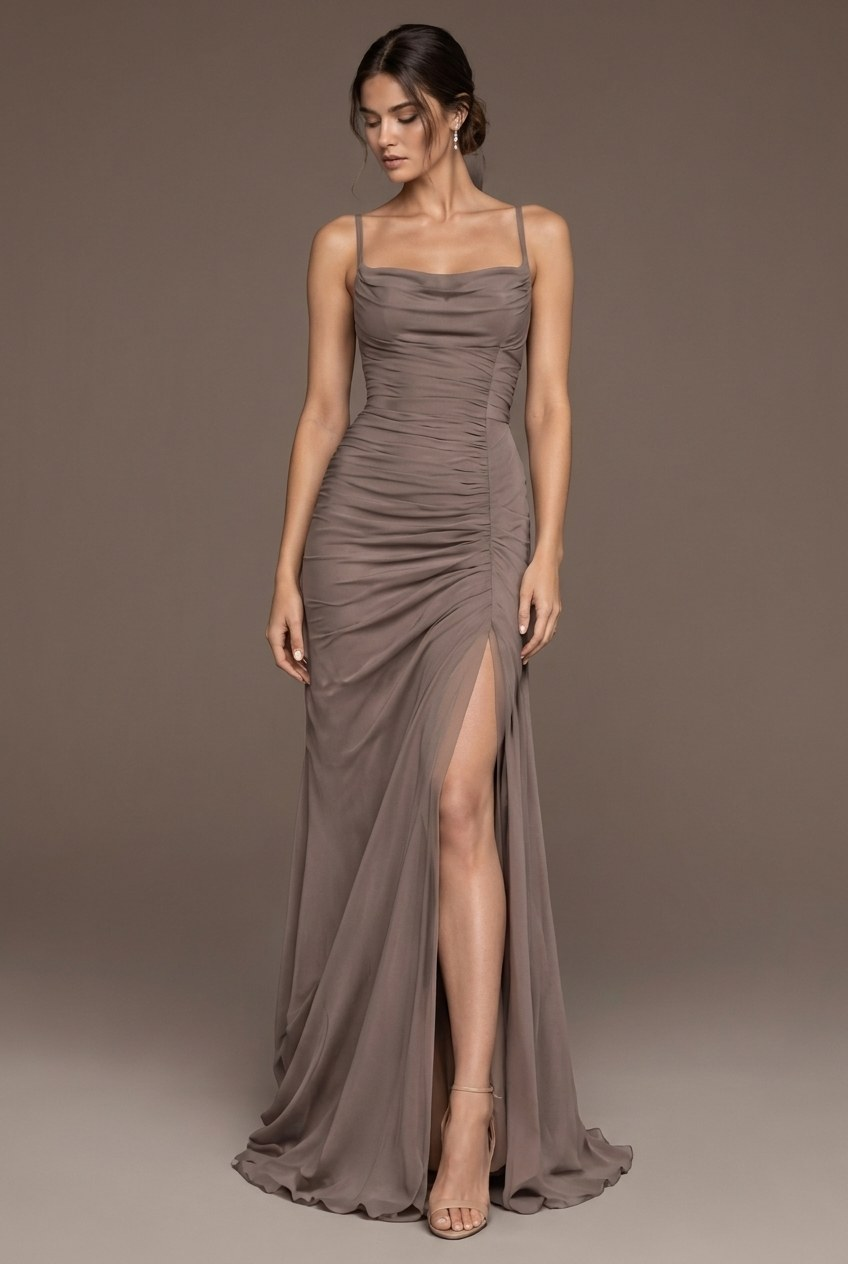
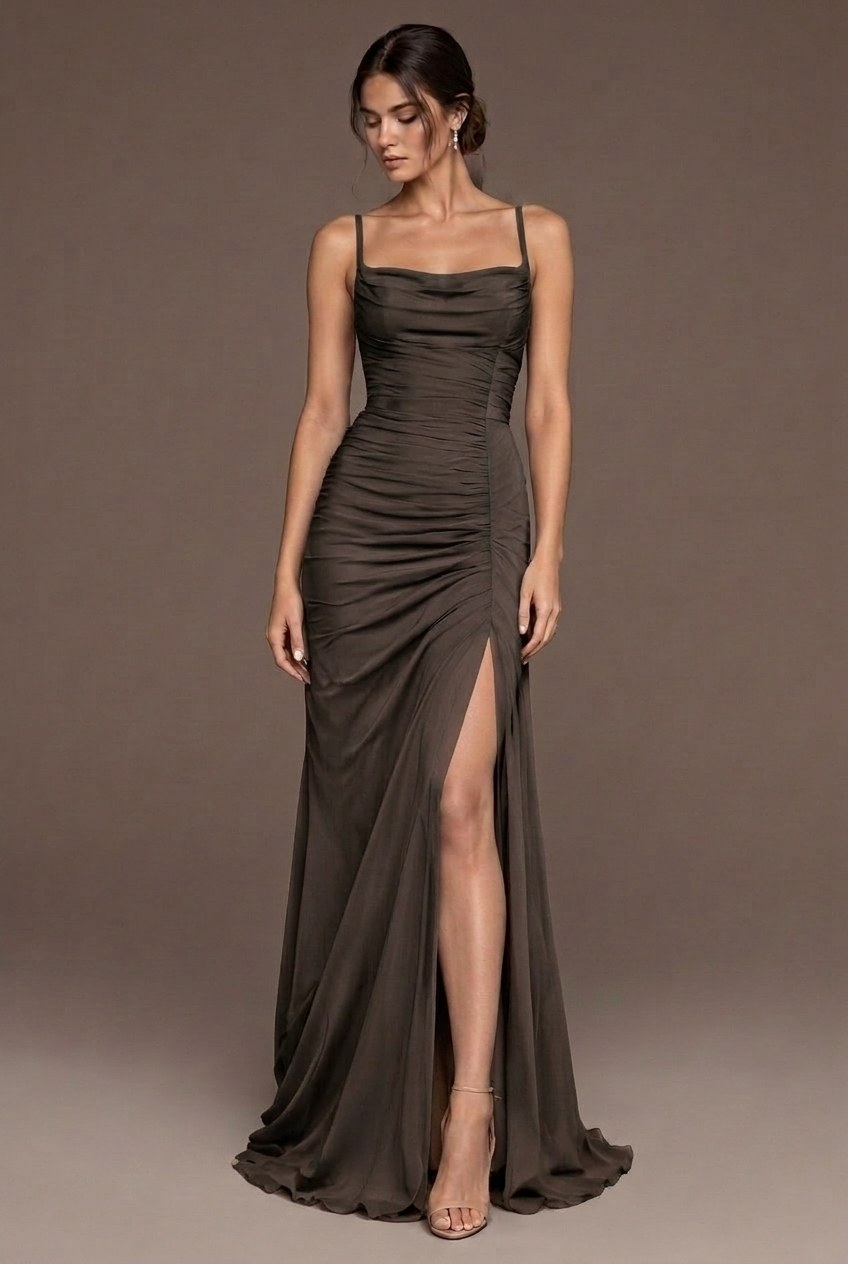
Gris achocolatado más oscuro y sin nombres bajo los colores

Changed region(s): [[0.2759, 0.1543, 0.7665, 0.9873], [0.5212, 0.9565, 0.5519, 0.9873]]

diff --git a/index.html b/index.html
@@ -788,7 +788,7 @@ document.querySelectorAll('#htabs button').forEach(b=>b.addEventListener('click'
 // dress code: hover/click cambia las 3 fotos
 const DR={
  w:{sub:'Las mujeres pueden elegir vestidos largos elegantes, en colores sólidos (sin estampados) de nuestra paleta.',hint:'Pasa el cursor o toca un color',
-    sw:[['chocolate','Chocolate','#44231A'],['vino','Vino','#531C30'],['ciruela','Ciruela','#58313D'],['ceniza','Gris achocolatado','#857369'],['pistacho','Verde oliva','#3F4A2E']]},
+    sw:[['chocolate','Chocolate','#44231A'],['vino','Vino','#531C30'],['ciruela','Ciruela','#58313D'],['ceniza','Gris achocolatado','#4E443E'],['pistacho','Verde oliva','#3F4A2E']]},
  m:{sub:'Los hombres irán de smoking: camisa blanca y corbata negra.',hint:'Pasa el cursor o toca el color',sw:[['smoking','Negro','#0E0B0B']]}
 };
 const LK={
@@ -815,7 +815,7 @@ function showGroup(g){
   const d=DR[g];
   document.querySelectorAll('#dtabs button').forEach(b=>b.setAttribute('aria-selected',b.dataset.g===g?'true':'false'));
   document.getElementById('dsub').textContent=d.sub;document.getElementById('dhint').textContent=d.hint;
-  dsw.innerHTML=d.sw.map(([id,n,c])=>'<button class="sw" aria-expanded="false" data-id="'+id+'"><i style="background:'+c+'"></i><span>'+n+'</span></button>').join('');
+  dsw.innerHTML=d.sw.map(([id,n,c])=>'<button class="sw" aria-expanded="false" data-id="'+id+'" aria-label="'+n+'" title="'+n+'"><i style="background:'+c+'"></i></button>').join('');
   dsw.querySelectorAll('.sw').forEach(b=>{
     if(canHover)b.addEventListener('mouseenter',()=>setLook(b.dataset.id));
     b.addEventListener('click',()=>setLook(b.dataset.id));
